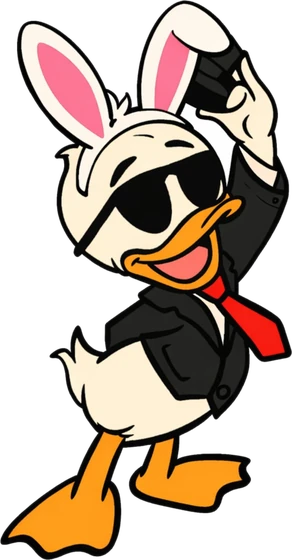
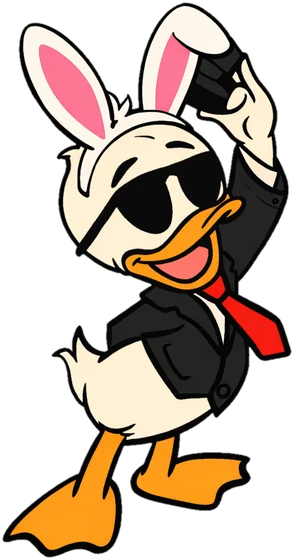
Nuevos dibujos de los Tios Patitos y del Tio Pato Conejo
Se reemplazan las imagenes calmas (los enojados siguen igual), se ajustan las
proporciones y el recorte del avatar para que se vean las caras enteras.

Claude-Session: https://claude.ai/code/session_01Hta2nH4bh5bZygqPgYndi2

diff --git a/tienda.js b/tienda.js
@@ -16,14 +16,14 @@ window.TIENDA = {
       av: { w: 55, fx: .545, fy: .309 }, av2: { w: 66, fx: .55, fy: .261 }, css: { steam: '60% 17%' }, note: 'El de siempre: ángel que baja al infierno' },
     { id: 'tia', n: 'Tía Patita', price: 150, stat: 'trajes/patita-angel.webp', stat2: 'trajes/patita-diabla.webp', asp: 1.547, asp2: 1.179, name: 'la Tía Patita', g: 'f', devil: true,
       av: { w: 51, fx: .465, fy: .296 }, av2: { w: 77, fx: .525, fy: .273 }, css: { steam: '62% 14%' }, note: 'Ángel que se vuelve diabla' },
-    { id: 'conejo',   n: 'Tío Pato Conejo',     price: 300, stat: 'trajes/conejo.webp',   stat2: 'trajes/conejo-enojado.webp',   asp: 1.92, asp2: 1.65, name: 'el Tío Pato Conejo',     g: 'm',
-      av: { w: 47, fx: .46, fy: .353 }, av2: { w: 57, fx: .525, fy: .354 }, css: { steam: '66% 12%' }, note: 'Se enoja cuando avanzas' },
+    { id: 'conejo',   n: 'Tío Pato Conejo',     price: 300, stat: 'trajes/conejo.webp',   stat2: 'trajes/conejo-enojado.webp',   asp: 1.905, asp2: 1.65, name: 'el Tío Pato Conejo',     g: 'm',
+      av: { w: 46, fx: .47, fy: .333 }, av2: { w: 57, fx: .525, fy: .354 }, css: { steam: '66% 12%' }, note: 'Se enoja cuando avanzas' },
     { id: 'conejita', n: 'Tía Patita Conejita', price: 300, stat: 'trajes/conejita.webp', stat2: 'trajes/conejita-enojada.webp', asp: 1.63, asp2: 1.45, name: 'la Tía Patita Conejita', g: 'f',
       av: { w: 56, fx: .535, fy: .388 }, av2: { w: 59, fx: .52, fy: .397 }, css: { steam: '70% 16%' }, note: 'Se enoja cuando avanzas' },
     { id: 'bigotes',  n: 'Tío Pato Simi',       price: 600, stat: 'trajes/bigotes.webp',  stat2: 'trajes/bigotes-enojado.webp',  asp: 1.92, asp2: 1.61, name: 'el Tío Pato Simi',       g: 'm',
       av: { w: 48, fx: .46, fy: .319 }, av2: { w: 55, fx: .52, fy: .333 }, css: { steam: '64% 12%' }, note: 'Bigote, sombrero de copa y bata' },
-    { id: 'tios',     n: 'Tíos Patitos',        price: 600, stat: 'trajes/tios.webp',     stat2: 'trajes/tios-enojados.webp',    asp: .83,  asp2: .86,  name: 'los Tíos Patitos',       g: 'p', dw: 1.5,
-      av: { w: 62, fx: .505, fy: .266 }, av2: { w: 58, fx: .525, fy: .28 }, css: { steam: '48% 6%' }, note: 'La pareja: te devuelven la pelota de la mano' },
+    { id: 'tios',     n: 'Tíos Patitos',        price: 600, stat: 'trajes/tios.webp',     stat2: 'trajes/tios-enojados.webp',    asp: .826,  asp2: .86,  name: 'los Tíos Patitos',       g: 'p', dw: 1.5,
+      av: { w: 58, fx: .525, fy: .264 }, av2: { w: 58, fx: .525, fy: .28 }, css: { steam: '48% 6%' }, note: 'La pareja: te devuelven la pelota de la mano' },
     { id: 'galactico', n: 'Tío Pato Galáctico',  price: 5000, stat: 'trajes/galactico.webp', stat2: 'trajes/galactico-furia.webp', asp: 1.918, asp2: 1.56, name: 'el Tío Pato Galáctico',  g: 'm',
       av: { w: 45, fx: .46, fy: .337 }, av2: { w: 61, fx: .525, fy: .404 }, css: { steam: '60% 14%' }, note: 'Un trozo del universo: se enoja y se le eriza la melena' },
     // Personaje secreto: aparece como una carta misteriosa hasta que lo compras. Es el Tío Pato Dorado (rey de oro con corona que al enojarse se enciende al rojo vivo).

diff --git a/sw.js b/sw.js
@@ -1,6 +1,6 @@
 // Service worker de «Gánale al Tío Pato»: deja el juego listo para usarse sin conexión.
 // Si cambias imágenes o el código, sube el número de VERSION para que los celulares descarguen lo nuevo.
-const VERSION = 'v31';
+const VERSION = 'v32';
 const CACHE = 'tio-pato-' + VERSION;
 const ASSETS = ["./", "index.html", "config.js", "tienda.js", "dialogos.js", "manifest.webmanifest", "icons/apple-touch-icon.png", "icons/favicon-32.png", "icons/favicon-64.png", "icons/icon-192.png", "icons/icon-512.png", "icons/maskable-512.png", "pato/face0.png", "pato/face1.png", "pato/face2.png", "pato/face3.png", "pato/halo.png", "pato/hero_angel.png", "pato/hero_devil.png", "pato/hero_mid.png", "pato/horns.png", "pato/tail.png", "pato/trident.png", "pato/wingL_angel.png", "pato/wingL_devil.png", "pato/wingR_angel.png", "pato/wingR_devil.png", "skins/b1000.webp", "skins/b10000.webp", "skins/b2000.webp", "skins/b20000.webp", "skins/b5000.webp", "skins/peso1.webp", "skins/peso10.webp", "skins/peso100.webp", "skins/peso50.webp", "skins/peso500.webp", "trajes/bigotes.webp", "trajes/conejo-enojado.webp", "trajes/conejo.webp", "trajes/conejita.webp", "skins/peso5.webp", "trajes/bigotes-enojado.webp", "trajes/conejita-enojada.webp", "trajes/tios-enojados.webp", "trajes/tios.webp", "fondos/galaxia-1.webp", "fondos/galaxia-2.webp", "fondos/aurora-1.webp", "fondos/aurora-2.webp", "fondos/aurora-3.webp", "trajes/angel.webp", "trajes/angel-demonio.webp", "trajes/galactico.webp", "trajes/galactico-furia.webp", "trajes/dorado.webp", "trajes/dorado-oscuro.webp", "trajes/patita-angel.webp", "trajes/patita-diabla.webp", "skins/plata.webp", "skins/oro.webp", "skins/diamante.webp"];
 

diff --git a/index.html b/index.html
@@ -2396,7 +2396,7 @@
   }
 
   // Prueba paso a paso lo que Firebase deja hacer a esta cuenta y lo muestra en pantalla (sirve para saber si las reglas están publicadas).
-  const BUILD = 'v31';
+  const BUILD = 'v32';
   async function diagnose() {
     const out = $('diagOut'), lines = [`Versión del juego: ${BUILD}`, `Base de datos: ${DB.replace(/^https?:\/\//, '')}`];
     out.hidden = false; const show = () => { out.textContent = lines.join('\n'); };

diff --git a/herramientas/ajustar-avatares.py b/herramientas/ajustar-avatares.py
@@ -8,10 +8,10 @@ ch=json.loads(subprocess.check_output(['node','-e','global.window={};require("./
 BOX={ # id: (calmo bbox, enojado bbox)
  'tio':((.27,.82,.15,.50),(.30,.80,.08,.48)),
  'tia':((.13,.80,.13,.50),(.31,.74,.12,.46)),
- 'conejo':((.08,.84,.22,.52),(.25,.80,.20,.54)),
+ 'conejo':((.10,.84,.18,.52),(.25,.80,.20,.54)),
  'conejita':((.22,.85,.25,.56),(.22,.82,.25,.58)),
  'bigotes':((.12,.80,.17,.50),(.22,.82,.18,.52)),
- 'tios':((.17,.84,.12,.47),(.17,.88,.12,.50)),
+ 'tios':((.17,.88,.10,.49),(.17,.88,.12,.50)),
  'galactico':((.10,.82,.17,.54),(.25,.80,.26,.58)),
  'millonario':((.05,.78,.22,.55),(.10,.85,.22,.60)),
 }
